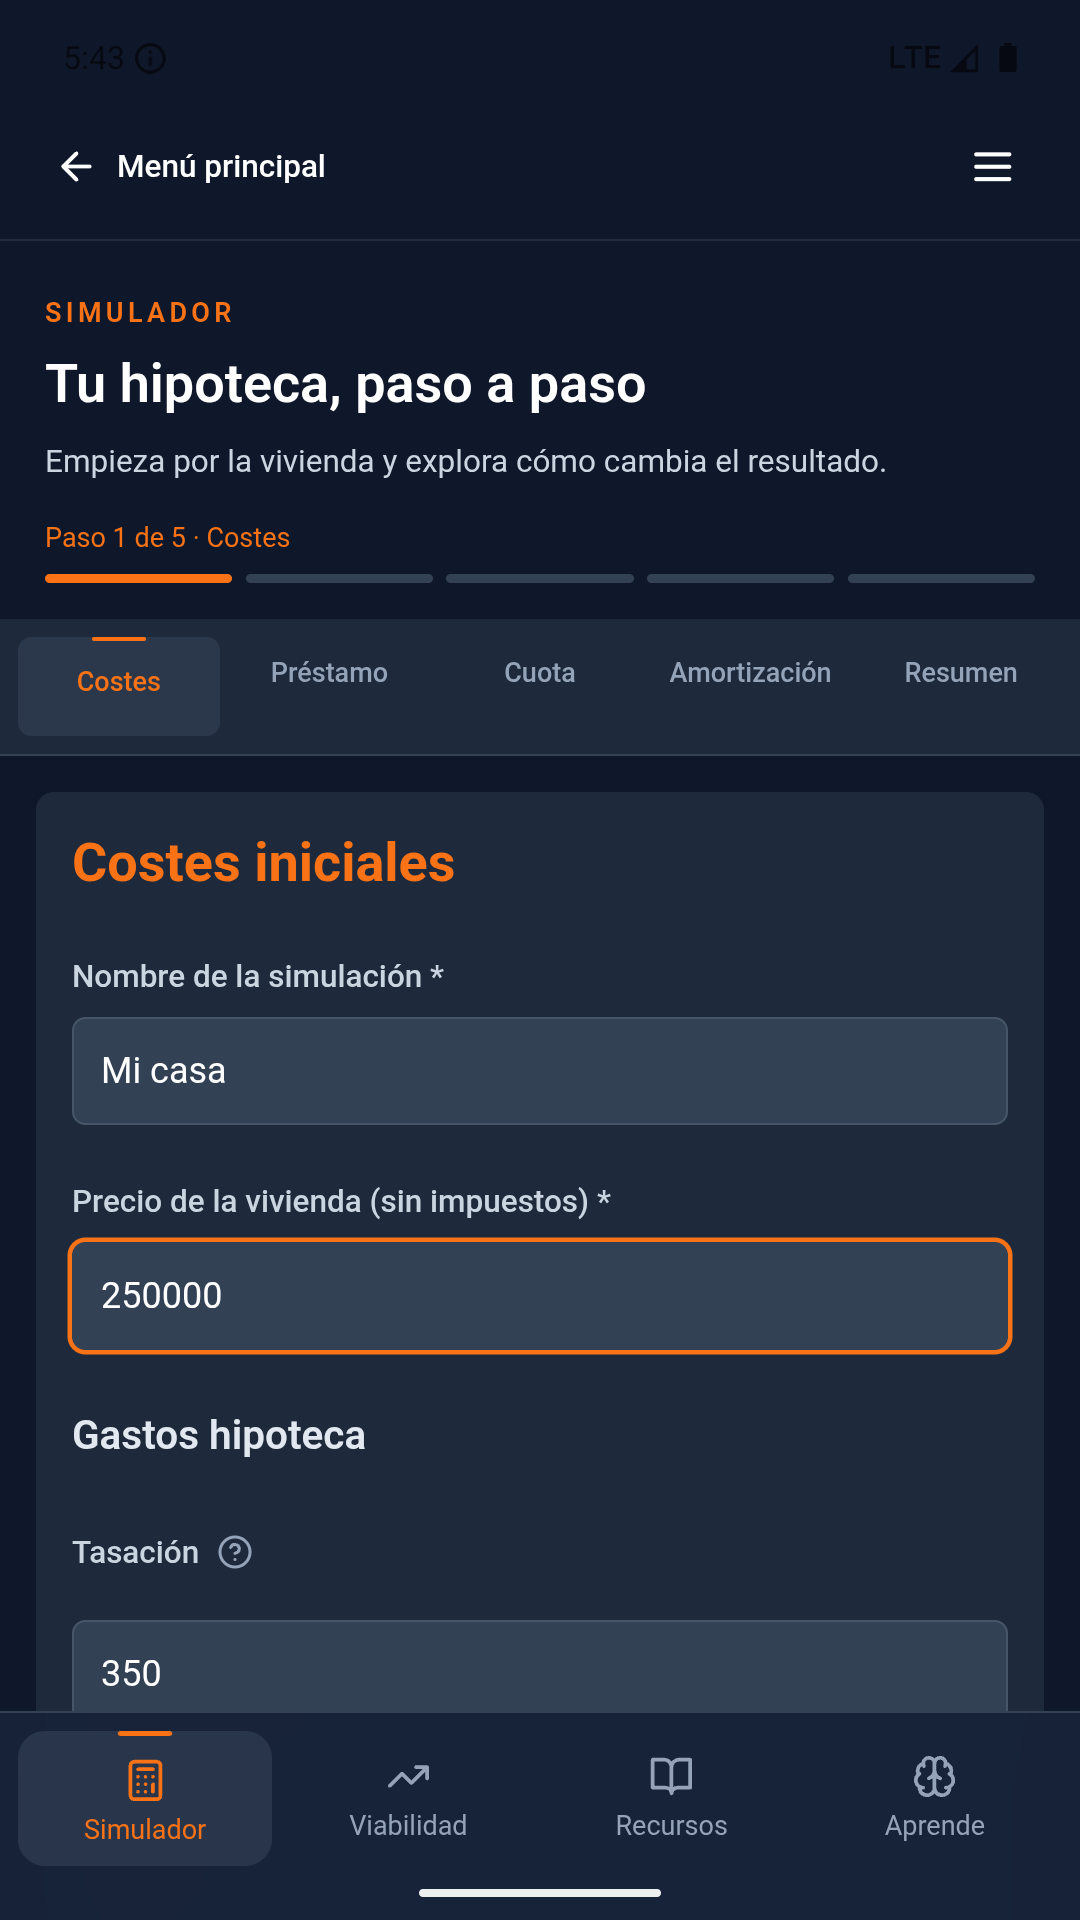
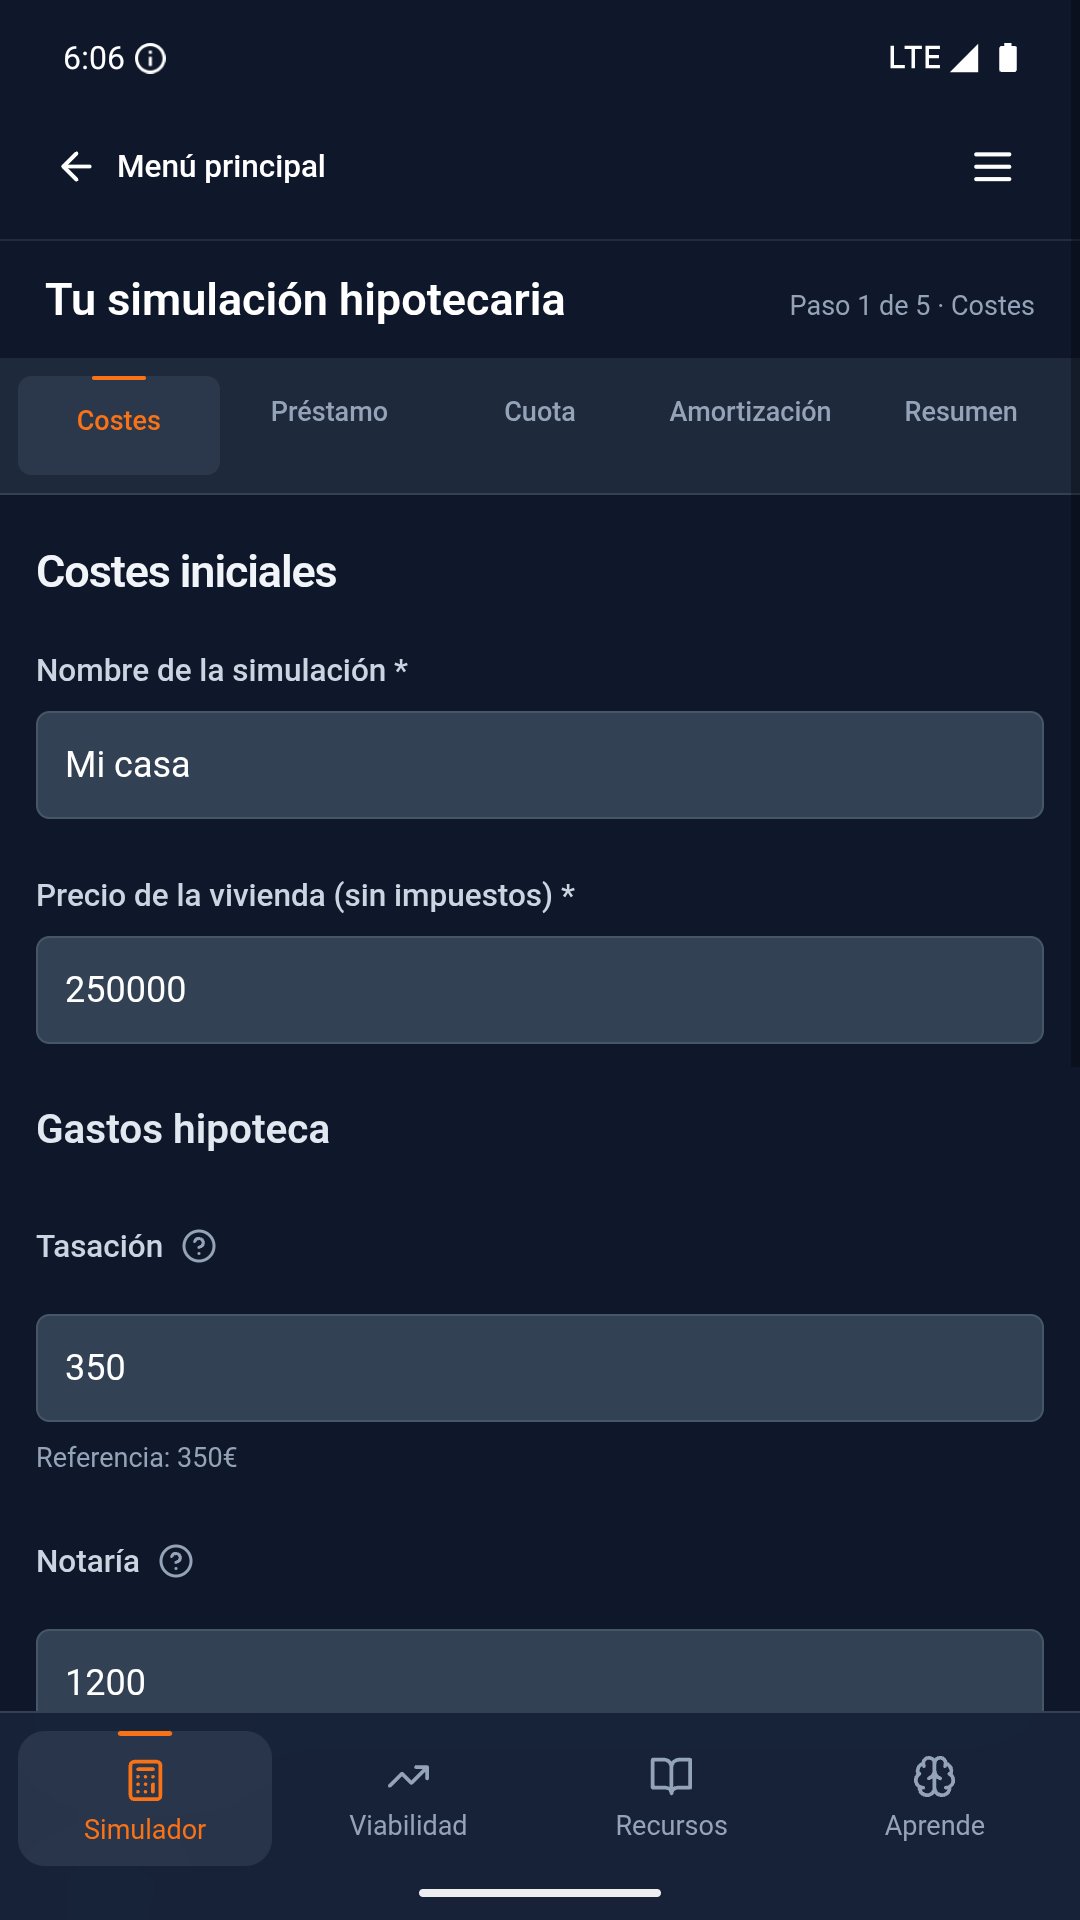
docs(play-store): add the summary screenshot and refresh listing notes
Recapture the five phone screenshots after the UX redesign, add a sixth
for the summary screen, and update the README counts, test total (16) and
verification notes.

diff --git a/store/google-play/README.md b/store/google-play/README.md
@@ -12,7 +12,7 @@ Material preparado el 6 de septiembre de 2026 para la ficha principal en españo
 | Correo de soporte | `es-ES/contact-email.txt` | Contacto ya utilizado en la app |
 | Icono | `es-ES/images/icon.png` | PNG RGBA, 512 × 512; derivado del icono existente |
 | Gráfico de funciones | `es-ES/images/feature-graphic.png` | PNG RGB sin alfa, 1024 × 500 |
-| Capturas de teléfono | `es-ES/images/phone-screenshots/*.png` | Cinco capturas reales, 1080 × 1920, relación 9:16 |
+| Capturas de teléfono | `es-ES/images/phone-screenshots/*.png` | Seis capturas reales, 1080 × 1920, relación 9:16 |
 
 Los archivos de texto contienen únicamente el contenido que debe copiarse en cada campo. La categoría sugerida es **Finanzas** y el tipo es **Aplicación**. Países, precio y datos del titular deben decidirse y completarse en la cuenta; no se han establecido desde el repositorio.
 
@@ -29,6 +29,7 @@ En Play Console, abre **Aumentar usuarios → Presencia en Google Play Store →
 | `03-viabilidad.png` | Formulario para estimar el presupuesto de compra según ingresos, endeudamiento, interés y plazo. |
 | `04-recursos.png` | Diccionario hipotecario con buscador y conceptos como TIN, TAE y euríbor. |
 | `05-aprende.png` | Preguntas de aprendizaje hipotecario con progreso, nivel, rendimiento y logros. |
+| `06-resumen.png` | Resumen con la cuota hipotecaria, el gasto mensual y el ahorro destinado a la compra. |
 
 ## Procedencia y reproducción
 
@@ -65,9 +66,9 @@ La firma del AAB, la URL pública de privacidad y las declaraciones de contenido
 
 ## Comprobaciones realizadas
 
-- `npm run check`: lint, TypeScript, 13 pruebas y build correctos tras eliminar el import sin usar `ShieldCheck`.
+- `npm run check`: lint, TypeScript, 16 pruebas y build correctos tras eliminar el import sin usar `ShieldCheck`.
 - `:app:assembleDebug --offline`: correcto; APK instalado y abierto en Android 16.
-- Inspección visual de las cinco capturas y del gráfico.
+- Inspección visual de las seis capturas y del gráfico.
 - Longitudes de textos, dimensiones, modos de color y tamaños de los PNG verificados localmente.
 
 ## Fuentes oficiales
@@ -75,3 +76,5 @@ La firma del AAB, la URL pública de privacidad y las declaraciones de contenido
 - [Recursos gráficos y textos de la ficha](https://support.google.com/googleplay/android-developer/answer/9866151?hl=es).
 - [Crear y configurar una aplicación](https://support.google.com/googleplay/android-developer/answer/9859152?hl=es).
 - [Pruebas para nuevas cuentas personales](https://support.google.com/googleplay/android-developer/answer/14151465?hl=es).
+
+Las capturas se actualizaron tras la revisión UX/UI: continuidad entre herramientas, resumen simplificado y barras de Android con iconos claros. Se verificaron en el emulador la conservación de datos, paso y desplazamiento, comparación de opciones y apertura de escenarios de Viabilidad. Los formularios se conservan durante la sesión, no después de recargar o cerrar el proceso.
